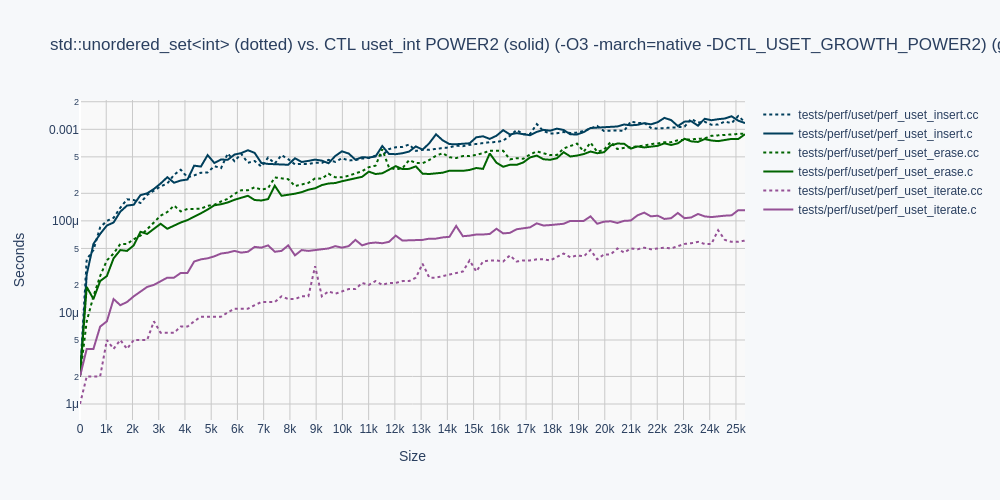
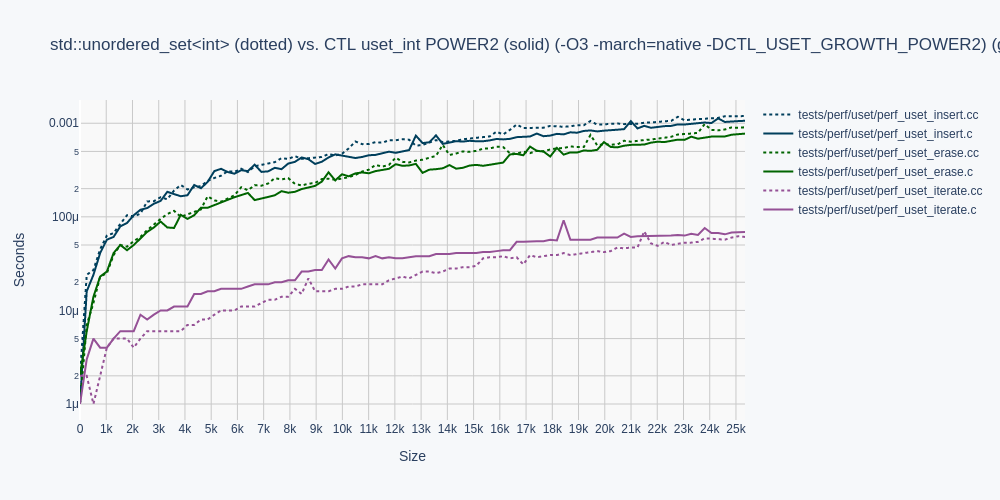
uset: dont use Lemire fast_mod
fails for all lower sizes. todo: try his header fastmod.h

Changed region(s): [[0.031, 0.21, 0.744, 0.81]]

diff --git a/ctl/unordered_set.h b/ctl/unordered_set.h
@@ -140,9 +140,10 @@ static inline size_t JOIN(I, index)(A *self, T value)
 {
 #ifdef CTL_USET_GROWTH_POWER2
     return self->hash(&value) & self->bucket_max;
-#else
+#elif __WORDSIZE == 127
     return ((uint64_t) self->hash(&value) * ((uint64_t) self->bucket_max + 1)) >> 32;
-    //const size_t hash = self->hash(&node->value) % (self->bucket_max + 1);
+#else
+    return self->hash(&value) % (self->bucket_max + 1);
 #endif
 }
 
@@ -151,9 +152,10 @@ static inline size_t JOIN(I, cached_index)(A *self, B *node)
 {
 #ifdef CTL_USET_GROWTH_POWER2
     return node->cached_hash & self->bucket_max;
-#else
+#elif __WORDSIZE == 127
     return ((uint64_t) node->cached_hash * ((uint64_t) self->bucket_max + 1)) >> 32;
-    //return node->cached_hash % (self->bucket_max + 1);
+#else
+    return node->cached_hash % (self->bucket_max + 1);
 #endif
 }
 #define BUCKET_INDEX(iter) JOIN(I, cached_index)((iter)->container, (iter)->node)
@@ -478,19 +480,21 @@ static inline B **JOIN(A, _cached_bucket)(A *self, B *node)
 #else
     const size_t hash = JOIN(I, index)(self, node->value);
 #endif
-    // LOG ("hash -> buckets[%lu]\n", hash);
+    LOG ("hash -> buckets[%lu]\n", hash);
     return &self->buckets[hash];
 }
 
 #ifdef CTL_USET_CACHED_HASH
+
 static inline B **JOIN(A, _bucket_hash)(A *self, size_t hash)
 {
     LOG ("buckets %lx %% %lu\n", hash, self->bucket_max);
 #ifdef CTL_USET_GROWTH_POWER2
     return &self->buckets[hash & self->bucket_max];
+#elif __WORDSIZE == 127
+    return &self->buckets[((uint64_t) hash * (uint64_t) (self->bucket_max + 1)) >> 32];
 #else
-    return &self->buckets[((uint64_t) hash * (uint64_t) (self->bucket_max + 1) >> 32];
-    //return &self->buckets[hash % (self->bucket_max + 1)];
+    return &self->buckets[hash % (self->bucket_max + 1)];
 #endif
 }
 
@@ -499,7 +503,7 @@ static inline B **JOIN(A, _bucket_hash)(A *self, size_t hash)
 static inline B **JOIN(A, _bucket)(A *self, T value)
 {
     const size_t hash = JOIN(I, index)(self, value);
-    LOG ("buckets %lx & %lu => %zu\n", self->hash(&value), self->bucket_max, hash);
+    LOG ("_bucket %lx %% %lu => %zu\n", self->hash(&value), self->bucket_max + 1, hash);
     return &self->buckets[hash];
 }
 #endif
@@ -507,7 +511,7 @@ static inline B **JOIN(A, _bucket)(A *self, T value)
 static inline size_t JOIN(A, bucket)(A *self, T value)
 {
     const size_t hash = JOIN(I, index)(self, value);
-    LOG ("bucket %lx %% %lu\n", self->hash(&value), self->bucket_max);
+    LOG ("bucket %lx %% %lu => %zu\n", self->hash(&value), self->bucket_max + 1, hash);
     return hash;
 }
 

diff --git a/tests/perf/uset/perf_uset_iterate.c b/tests/perf/uset/perf_uset_iterate.c
@@ -13,9 +13,9 @@ int main(void)
 {
     puts(__FILE__);
     srand(0xbeef);
+    uset_int c = uset_int_init(int_hash, int_equal);
     for(int run = 0; run < TEST_PERF_RUNS; run++)
     {
-        uset_int c = uset_int_init(int_hash, int_equal);
         unsigned int elems = TEST_PERF_CHUNKS * run;
         uset_int_reserve(&c, elems);
         for(unsigned int elem = 0; elem < elems; elem++)
@@ -26,6 +26,6 @@ int main(void)
             sum += *it.ref;
         long t1 = TEST_TIME();
         printf("%10d %10ld\n", elems, t1 - t0);
-        uset_int_free(&c);
     }
+    uset_int_free(&c);
 }
